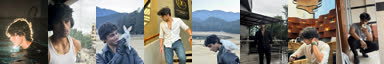
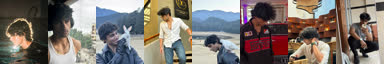
New Sahil portrait in the hero; racing-jacket shot joins the lookbook

Changed region(s): [[0.625, 0.0, 0.75, 1.0]]

diff --git a/index.html b/index.html
@@ -216,10 +216,10 @@ section.block { padding: clamp(72px, 9vw, 128px) var(--gut) 0 }
     <figure data-in style="--i:1"><img src="photos/look-2.jpg" alt="Shivam wearing headphones by a window" loading="lazy" style="object-position:35% 50%"><figcaption class="mono">Shivam · Window light</figcaption></figure>
     <figure data-in style="--i:2"><img src="photos/look-3.jpg" alt="Sahil holding a white rabbit in the mountains" loading="lazy"><figcaption class="mono">Sahil · Mountains</figcaption></figure>
     <figure data-in style="--i:3"><img src="photos/look-4.jpg" alt="Shivam on a staircase in a white shirt" loading="lazy"><figcaption class="mono">Shivam · Stairwell</figcaption></figure>
-    <figure data-in><img src="photos/look-5.jpg" alt="Sahil with a white dove in the mountains" loading="lazy"><figcaption class="mono">Sahil · Dove</figcaption></figure>
-    <figure data-in style="--i:1"><img src="photos/look-6.jpg" alt="Shivam dressed in black outside a café" loading="lazy" style="object-position:50% 60%"><figcaption class="mono">Shivam · Street</figcaption></figure>
-    <figure data-in style="--i:2"><img src="photos/look-7.jpg" alt="Shivam at a café table" loading="lazy"><figcaption class="mono">Shivam · Café</figcaption></figure>
-    <figure data-in style="--i:3"><img src="photos/look-8.jpg" alt="Shivam taking a mirror selfie" loading="lazy" style="object-position:50% 62%"><figcaption class="mono">Shivam · Mirror</figcaption></figure>
+    <figure data-in><img src="photos/look-7.jpg" alt="Shivam at a café table" loading="lazy"><figcaption class="mono">Shivam · Café</figcaption></figure>
+    <figure data-in style="--i:1"><img src="photos/look-6.jpg" alt="Sahil in a racing jacket beside a red car" loading="lazy" style="object-position:50% 25%"><figcaption class="mono">Sahil · Paddock</figcaption></figure>
+    <figure data-in style="--i:2"><img src="photos/look-8.jpg" alt="Shivam taking a mirror selfie" loading="lazy" style="object-position:50% 62%"><figcaption class="mono">Shivam · Mirror</figcaption></figure>
+    <figure data-in style="--i:3"><img src="photos/look-5.jpg" alt="Sahil with a white dove in the mountains" loading="lazy"><figcaption class="mono">Sahil · Dove</figcaption></figure>
   </div>
 </section>
 
